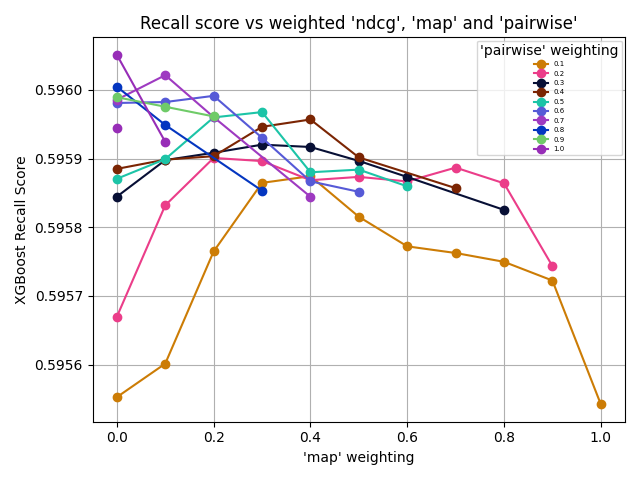
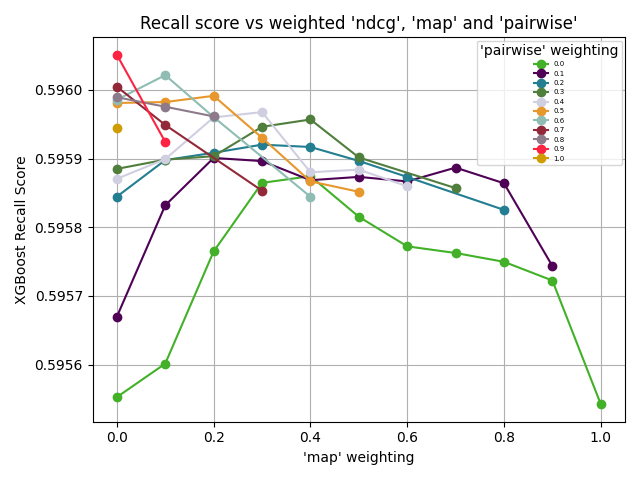
fix legend range

diff --git a/process/XGBoost/hyperparameter-selection.py b/process/XGBoost/hyperparameter-selection.py
@@ -9,6 +9,9 @@ switch = False
 # Read total scores from the file names
 starts_with = "0.0"
 
+def col():
+    return "#"+''.join([random.choice('0123456789ABCDEF') for j in range(6)])
+
 with open("./output.log", 'r') as file:
     for line in file:
         if line.startswith('Scores'):
@@ -17,10 +20,9 @@ with open("./output.log", 'r') as file:
             yy.append(float(score_str))
         elif line.endswith('.csv\n'):
             if not line.startswith(starts_with):
+                legends.append(starts_with)
                 starts_with = line.split('_')[0]
-                col = "#"+''.join([random.choice('0123456789ABCDEF') for j in range(6)])
-                legends.append(line.split('_')[0])
-                plt.plot(xx, yy, marker='o', color=col)
+                plt.plot(xx, yy, marker='o', color=col())
                 plt.xlabel("Average Pulse")
 
                 xx = []
@@ -28,8 +30,10 @@ with open("./output.log", 'r') as file:
                 xx.append(float(line.split('_')[1]))
             else:
                 xx.append(float(line.split('_')[1]))
+    
+    legends.append(starts_with)
 
-plt.plot(xx, yy, marker='o', color=col)
+plt.plot(xx, yy, marker='o', color=col())
 plt.xlabel("'map' weighting")
 plt.ylabel("XGBoost Recall Score")
 plt.title("Recall score vs weighted 'ndcg', 'map' and 'pairwise'")
